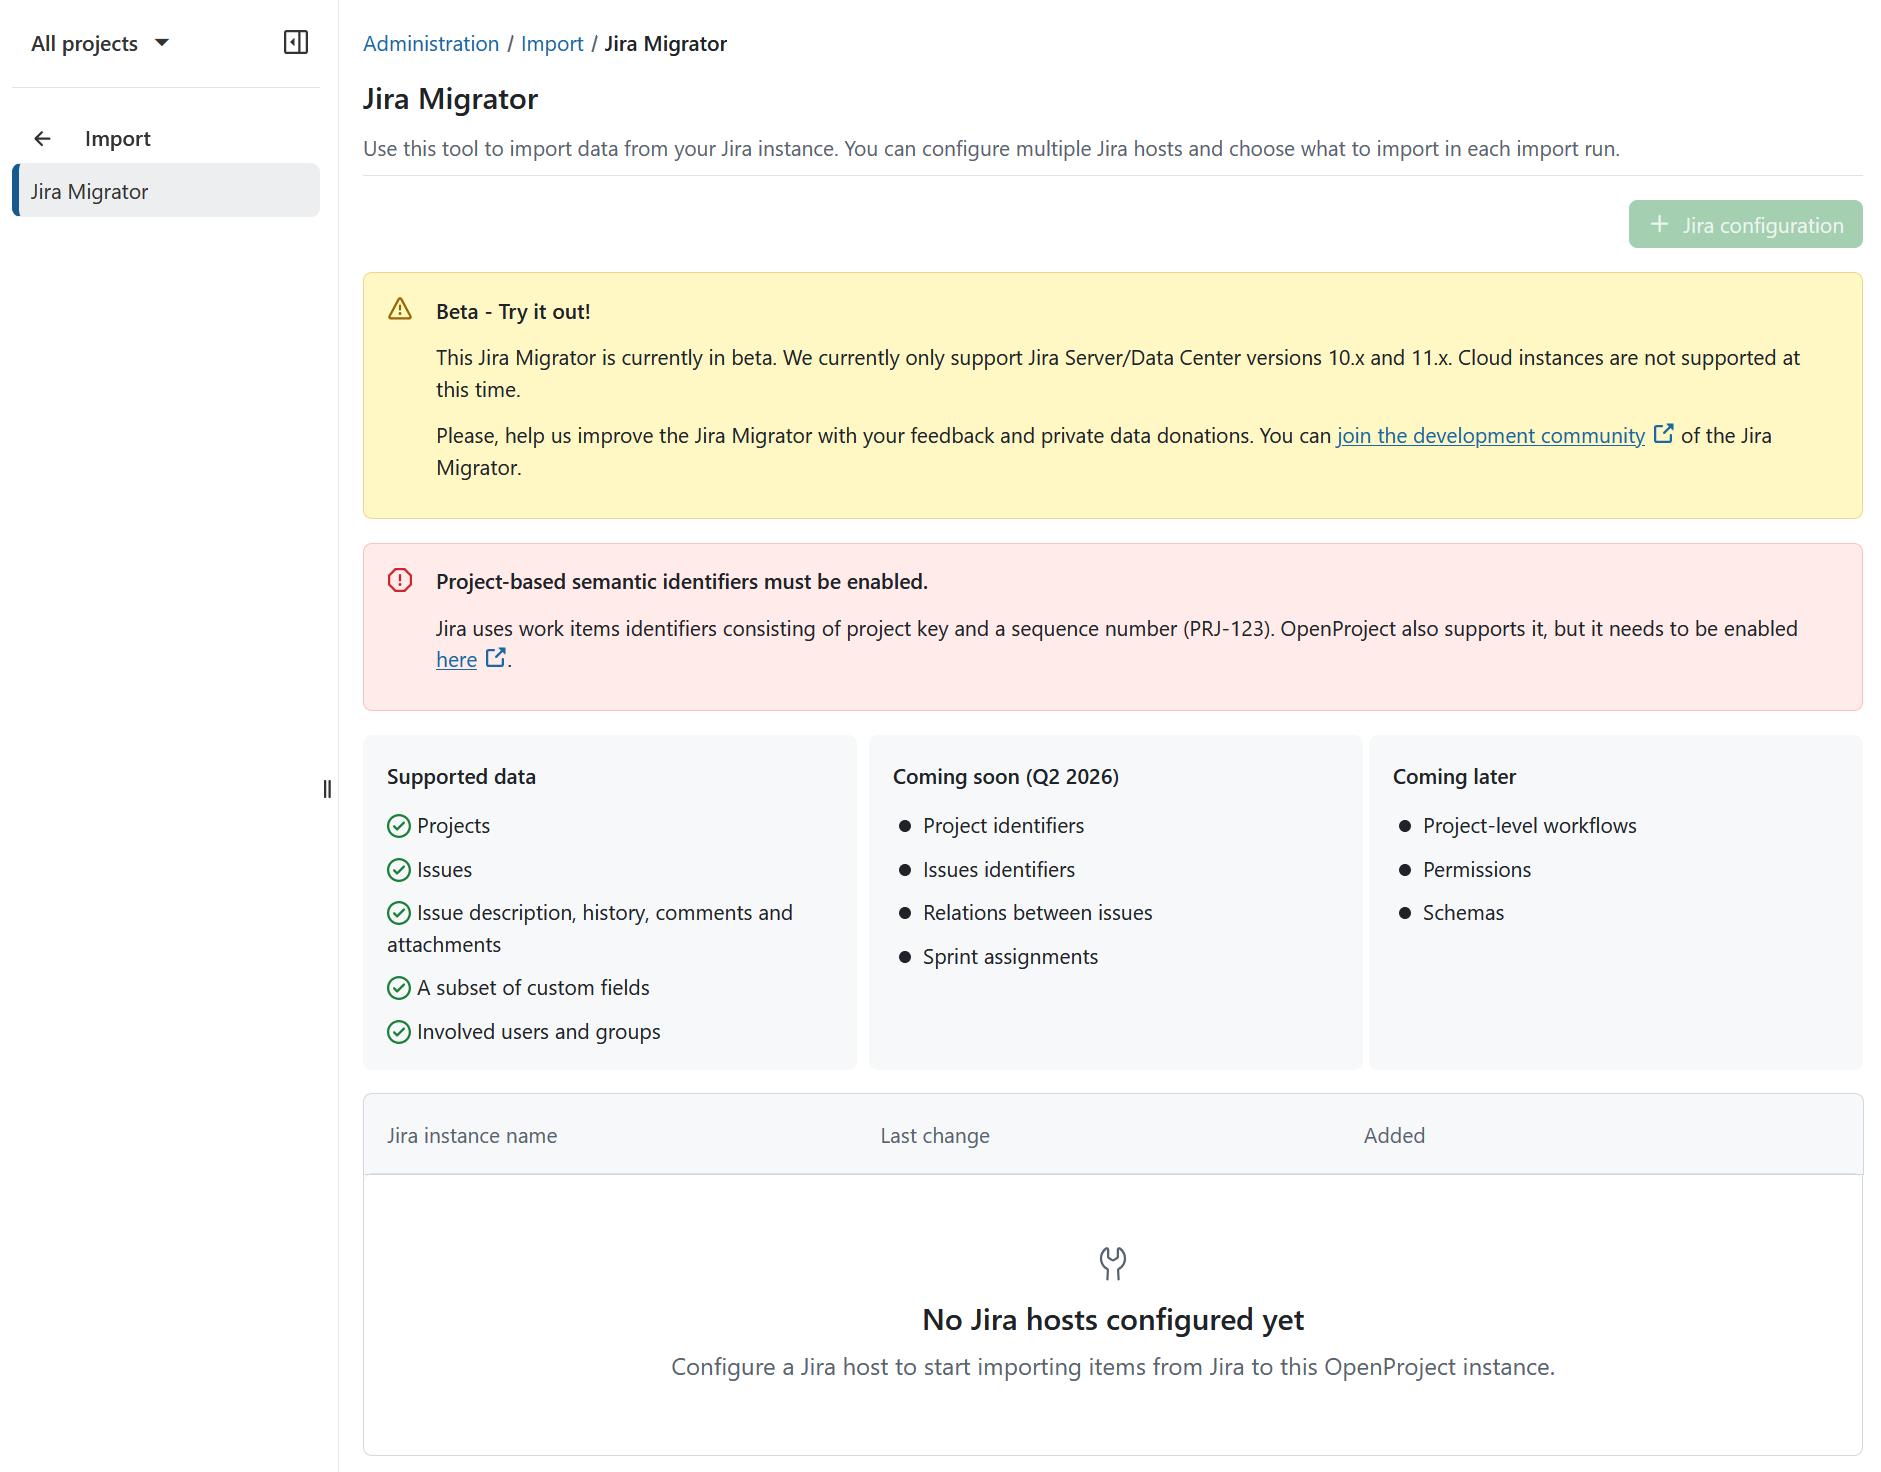
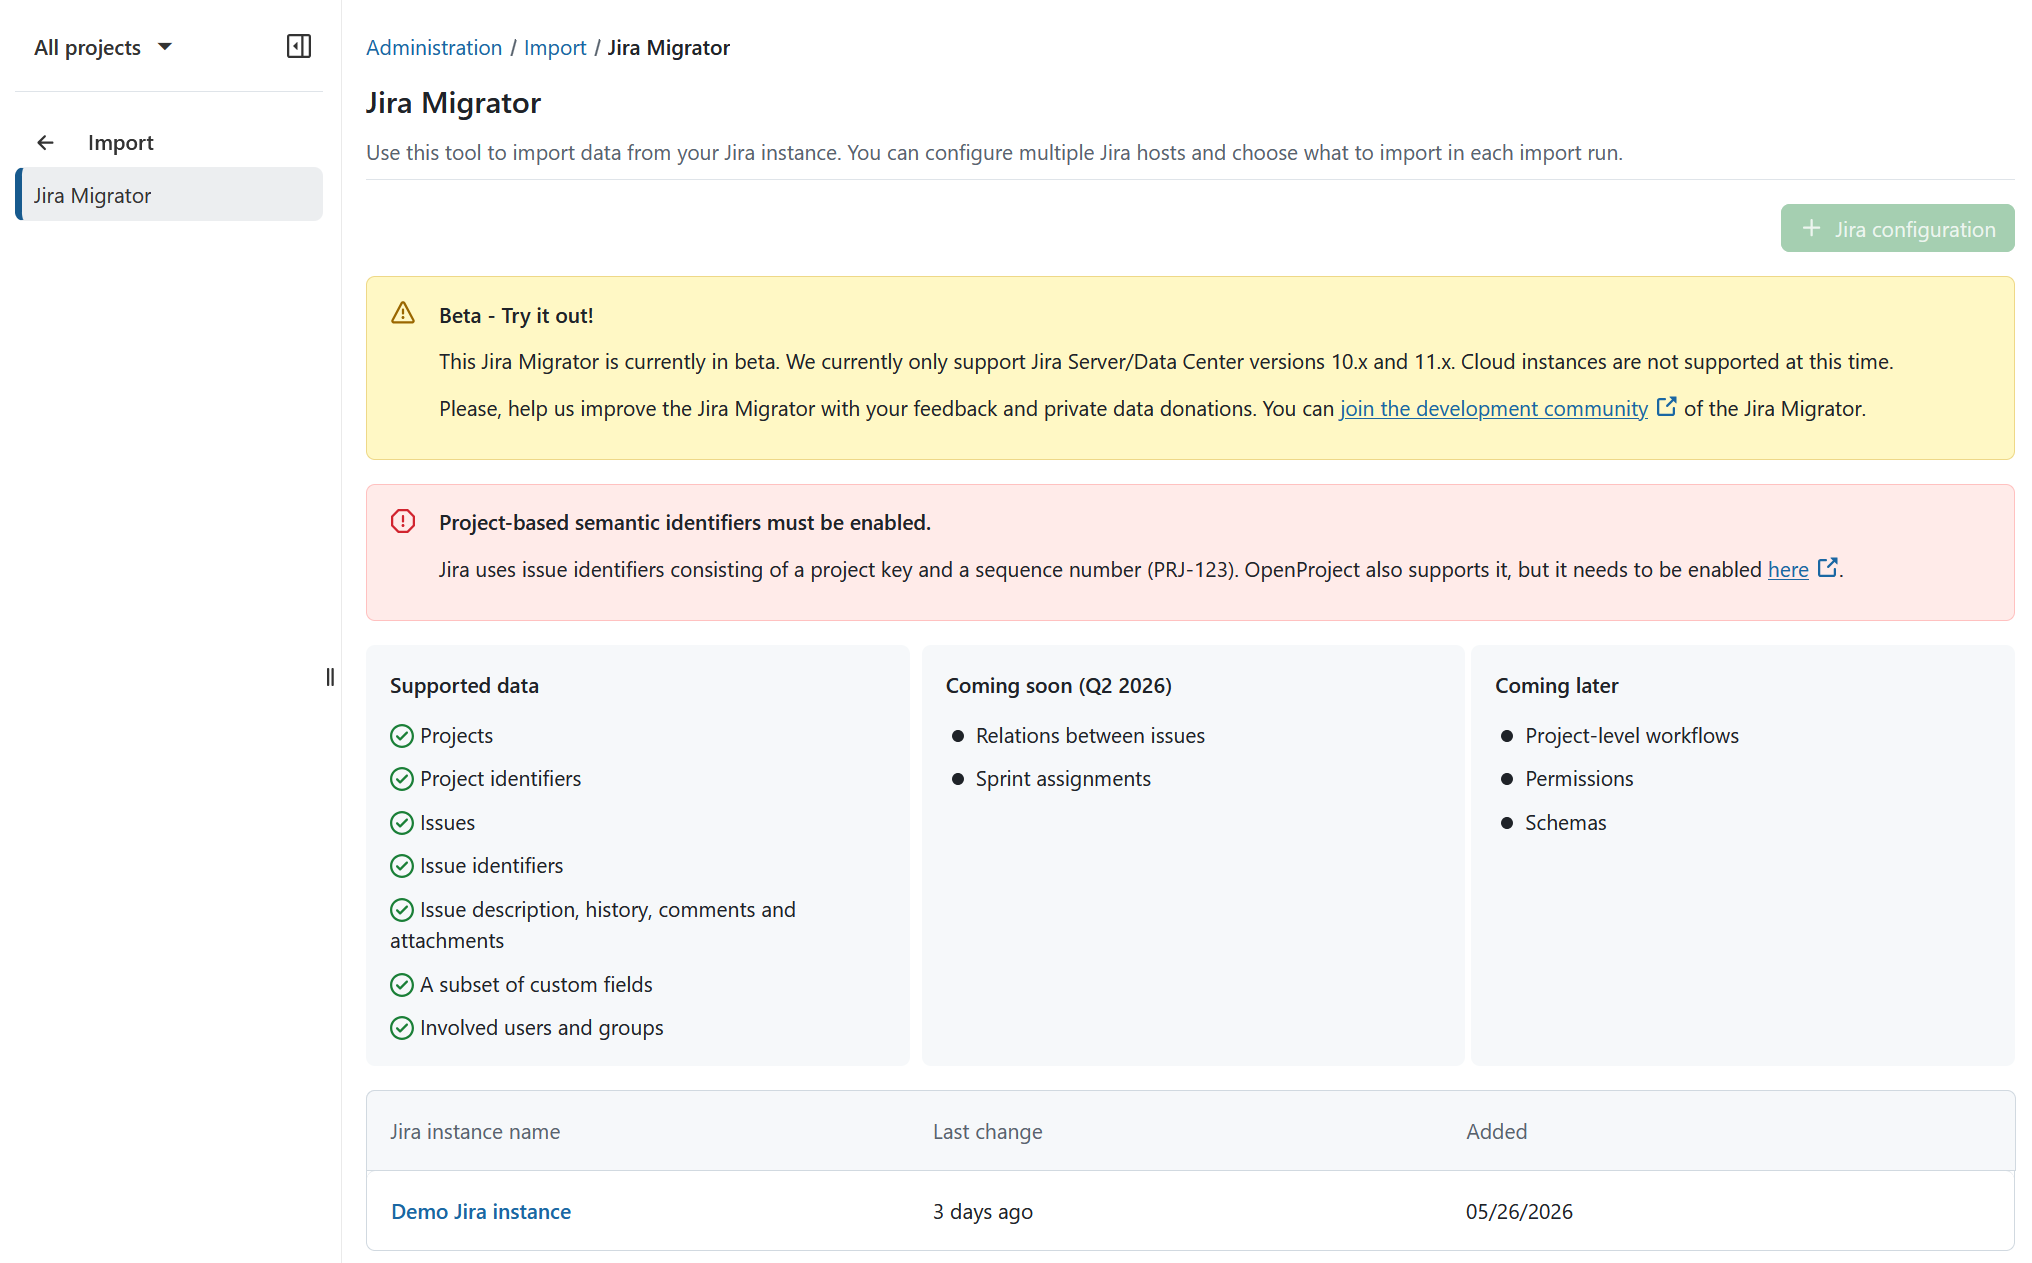
Merge pull request #23451 from opf/update-jira-migration-docs
update jira import docs

Pull request: update jira import docs
screenshots changes after wording changes

# Ticket
<!-- Provide the link to respective work package -->

<!-- Contributors: Please check our PR guide: https://www.openproject.org/docs/development/code-review-guidelines/#preparing-your-pull-request before opening a PR. -->

<!-- Reviewers: Please check our Review guide: https://www.openproject.org/docs/development/code-review-guidelines/#reviewing -->

# What are you trying to accomplish?
<!-- Provide a description of the changes. -->

## Screenshots
<!-- Provide before/after screenshots, videos, or graphs for any visual changes; otherwise, remove this section -->

# What approach did you choose and why?
<!-- This section is a place for you to describe your thought process in making these changes.
     List any tradeoffs you made to take on or pay down tech debt.
     Describe any alternative approaches you considered and why you discarded them. -->

# Merge checklist

- [ ] Added/updated tests
- [ ] Added/updated documentation in Lookbook (patterns, previews, etc)
- [ ] Tested major browsers (Chrome, Firefox, Edge, ...)

diff --git a/docs/installation-and-operations/jira-migration/README.md b/docs/installation-and-operations/jira-migration/README.md
@@ -28,18 +28,18 @@ With the [end of life for Jira Data Center](https://www.openproject.org/blog/jir
 This import tool is currently in beta and can only import basic data: 
 
 - Projects
+- Project identifiers
 - Issues (name, title, description, attachments, due date, estimated hours, remaining hours)
+- Issues identifiers (Beta, see [Work package identifiers](../../system-admin-guide/manage-work-packages/work-package-identifiers))
+- Basic custom fields (see [Custom fields migration](./custom-fields/))
 - Users (name, email, project membership)
 - Statuses
 - Types
-- Basic custom fields (see [Custom fields migration](./custom-fields/))
-- Issues identifiers (Beta, see [Work package identifiers](../../system-admin-guide/manage-work-packages/work-package-identifiers))
 
 ## Data not yet covered by the Migrator 
 
 ### Coming soon
 
-- Project identifiers
 - Relations between issues
 - Sprint assignments
 